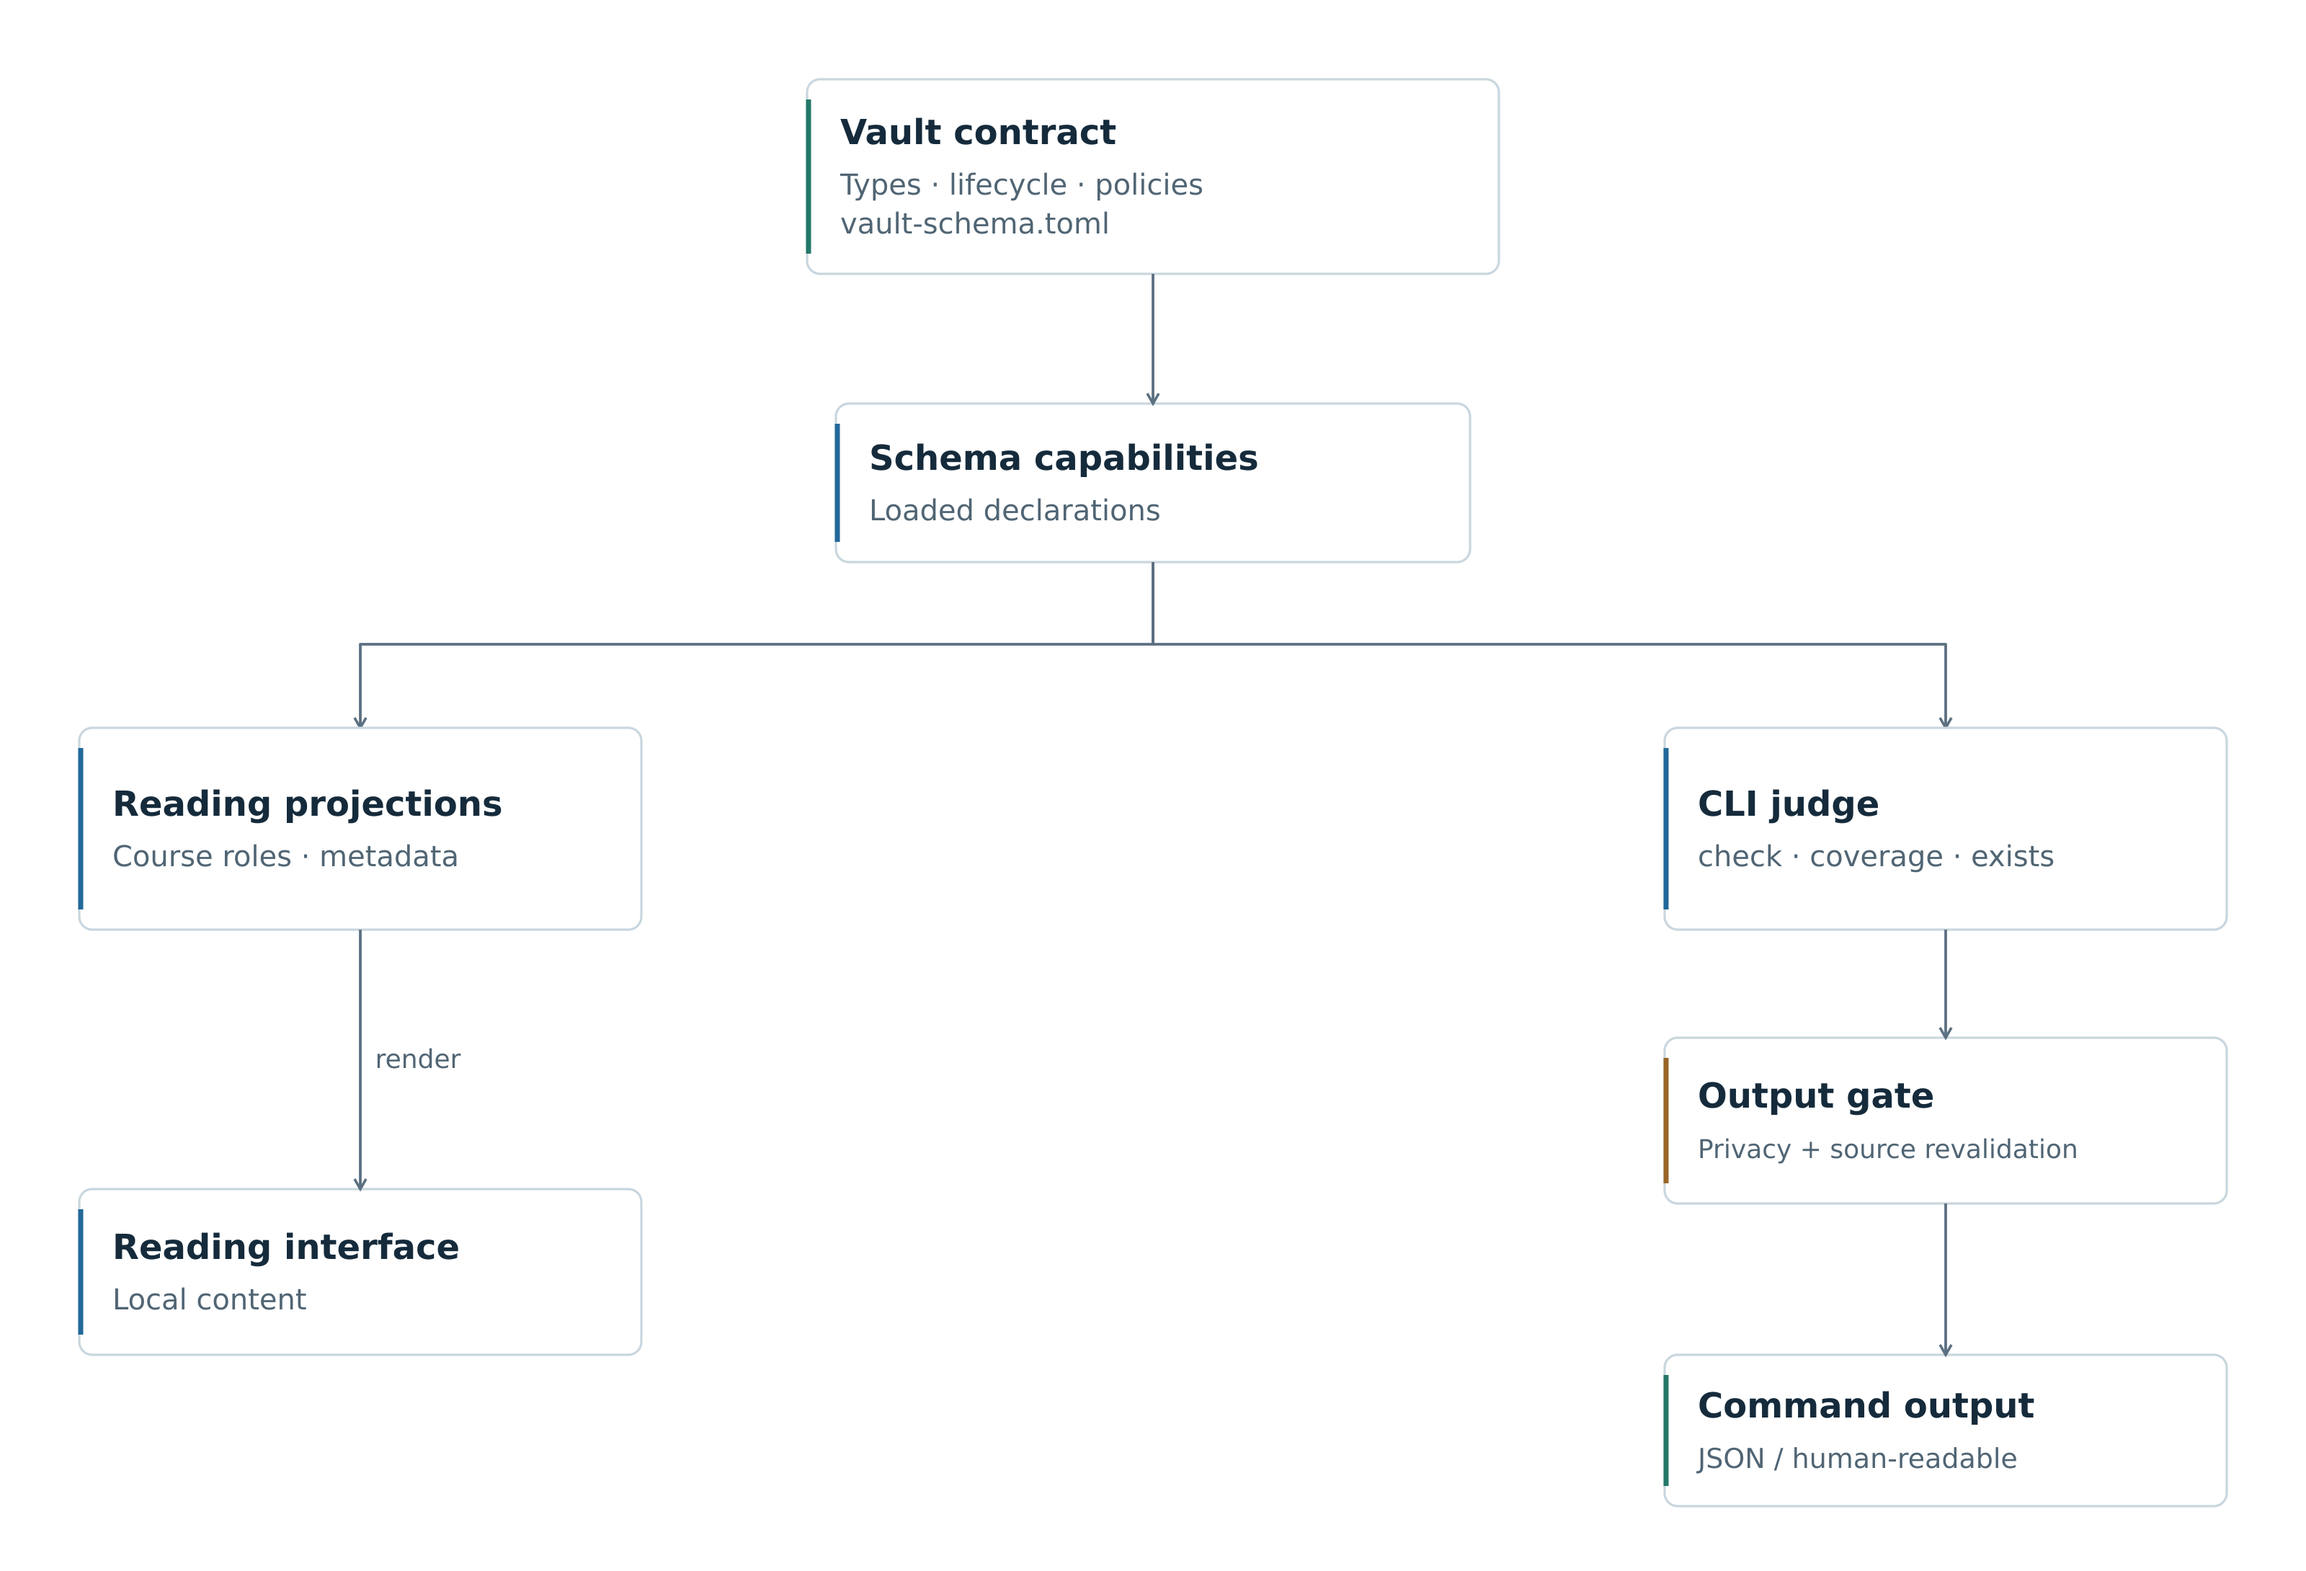
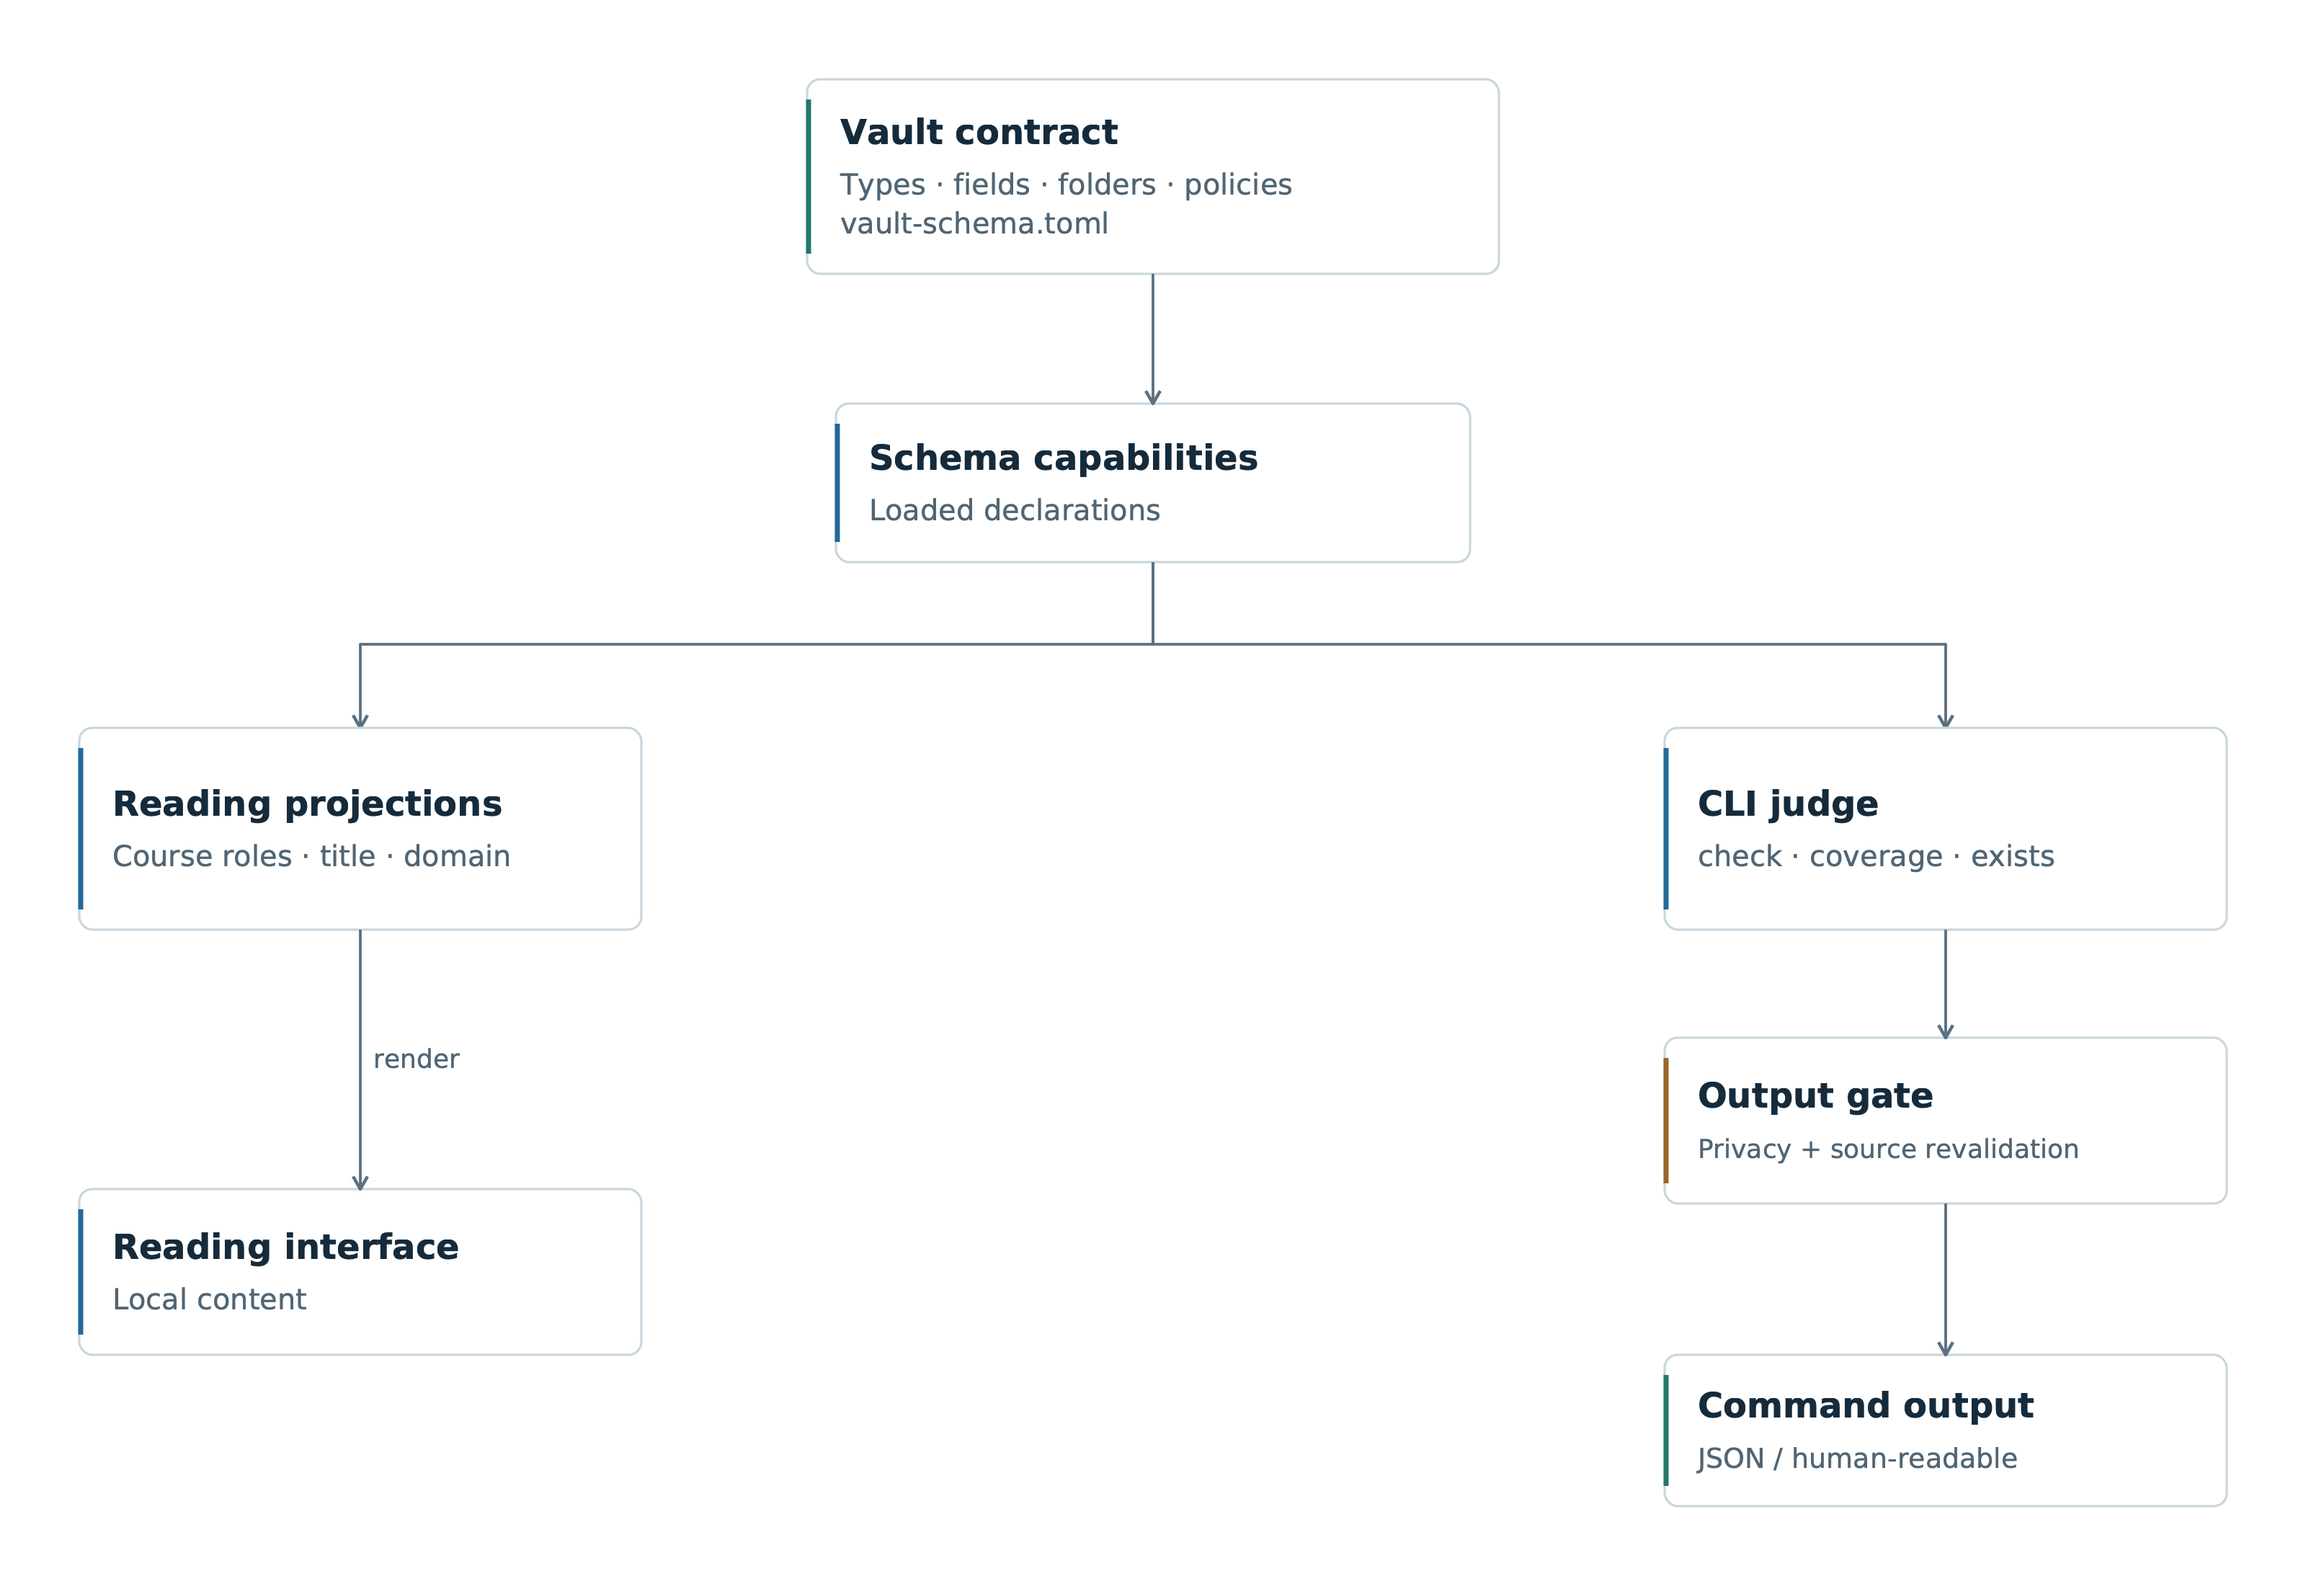
docs: redraw the contract and commands diagram for the closed field list
The vault contract box now names types, fields, folders and policies, and the
reading projections box names course roles, title and domain. The alt text of
the diagram in both architecture documents no longer speaks of lifecycle
declarations.

diff --git a/ARCHITECTURE.md b/ARCHITECTURE.md
@@ -121,7 +121,7 @@ The reading page polls for freshness rather than treating its displayed text as 
 
 ## 8. Commands and output privacy
 
-![The vault contract supplies reading and lifecycle declarations; command output additionally passes privacy and source checks.](docs/architecture/05-contract-and-commands.png)
+![The vault contract's declarations feed the reading projections and the command judge; command output additionally passes privacy and source checks.](docs/architecture/05-contract-and-commands.png)
 
 [`check`, `coverage`, and `exists`][commands] open the vault as independent read-only actions. They use the same parsing, resolution, and declaration semantics without calling the HTTP server or creating reader marks. [`left-open`][left-open] is the one command about the reader: it builds the same reading generation the server does, reads the uncertainty marks without writing them, and lists what the "What you left open" shelf lists, from the same selection.
 

diff --git a/ARCHITECTURE.zh-TW.md b/ARCHITECTURE.zh-TW.md
@@ -121,7 +121,7 @@ Wikilink 表示引用，`based_on` 宣告來源，學習路徑則安排課程順
 
 ## 8. 命令與輸出隱私
 
-![Vault 契約提供閱讀與生命週期宣告；命令輸出另外經過隱私與來源檢查。](docs/architecture/05-contract-and-commands.png)
+![Vault 契約的宣告供閱讀視圖與命令檢查使用；命令輸出另外經過隱私與來源檢查。](docs/architecture/05-contract-and-commands.png)
 
 [`check`、`coverage` 與 `exists`][commands] 各自開啟 vault，執行獨立的唯讀操作。它們共用解析、連結與契約語意，不呼叫 HTTP server，也不建立閱讀標記。[`left-open`][left-open] 是唯一談讀者的命令：它建立與 server 相同的讀取世代，只讀不寫地讀取「還不確定」標記，列出「還沒想通的」書架所列的同一份選取結果。
 
